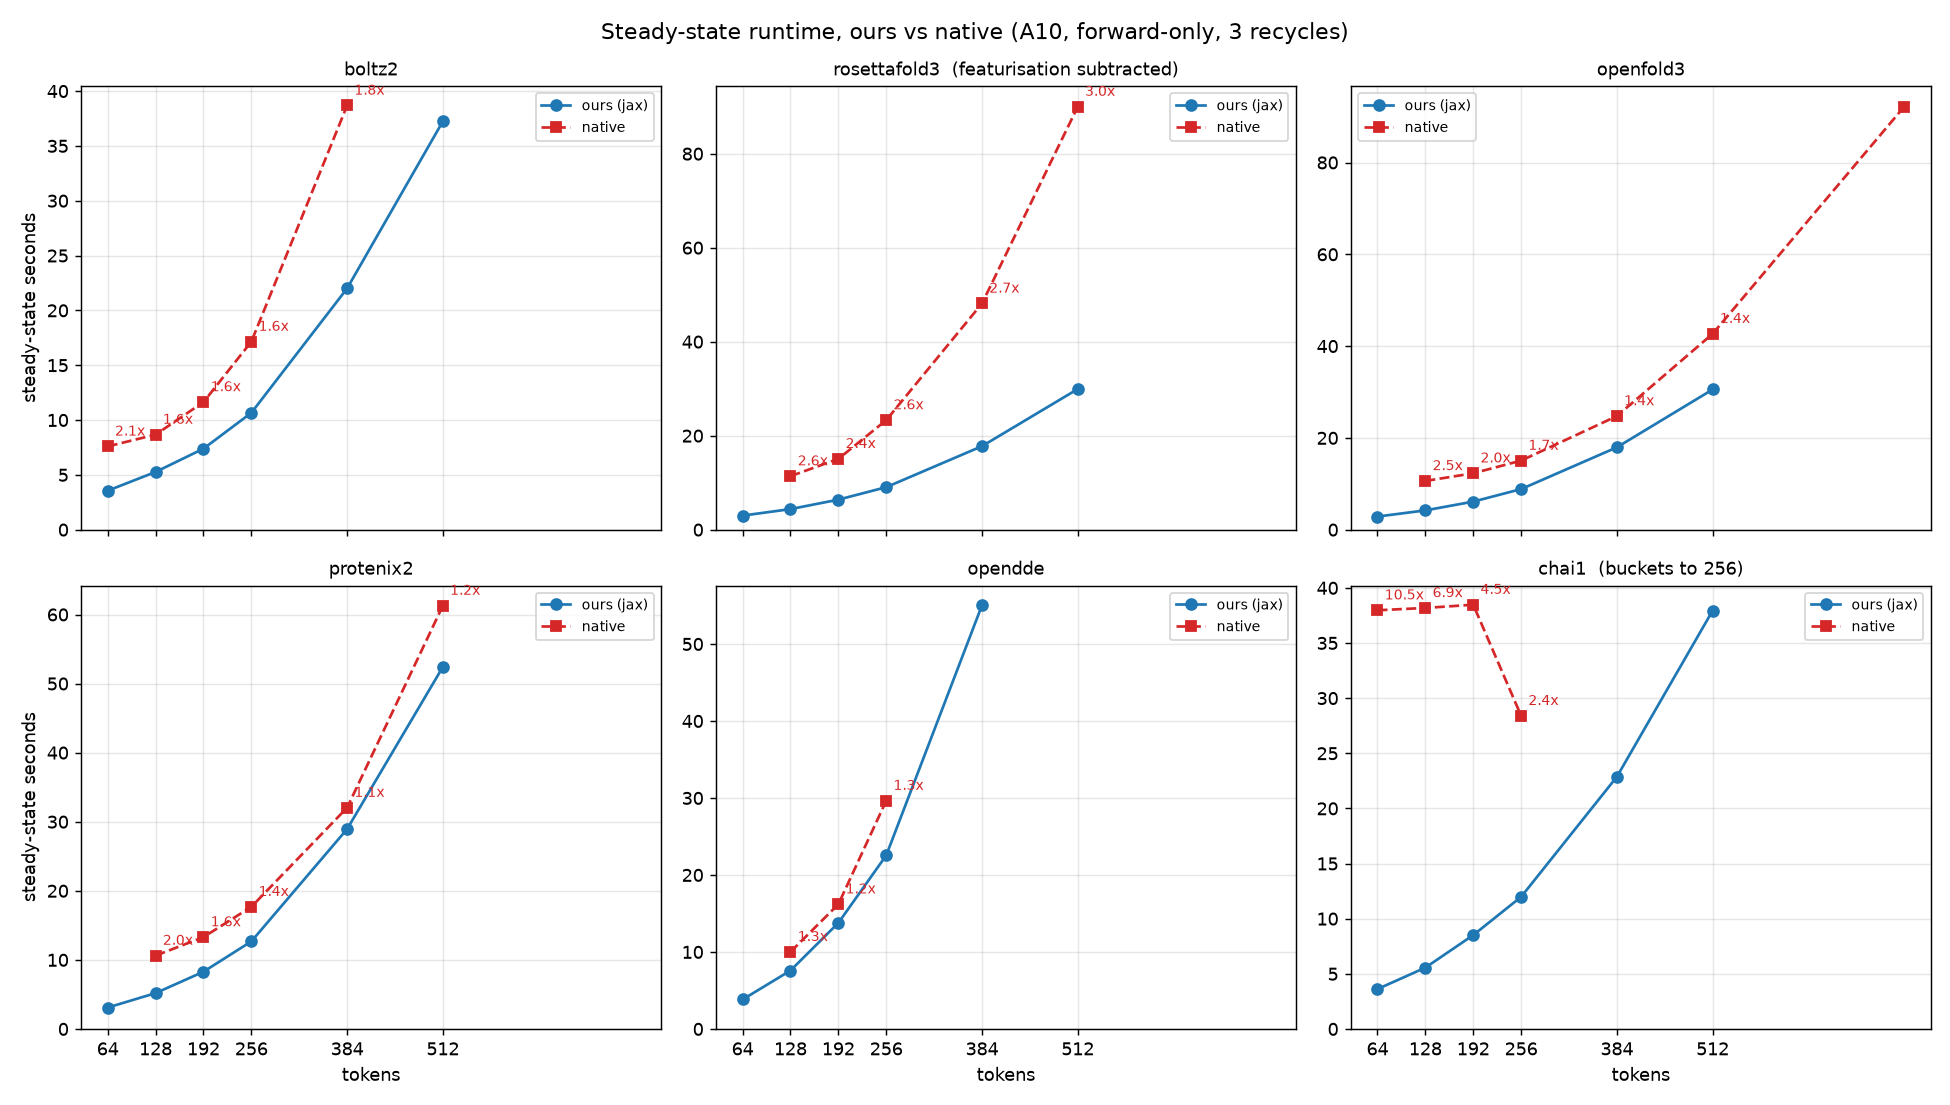
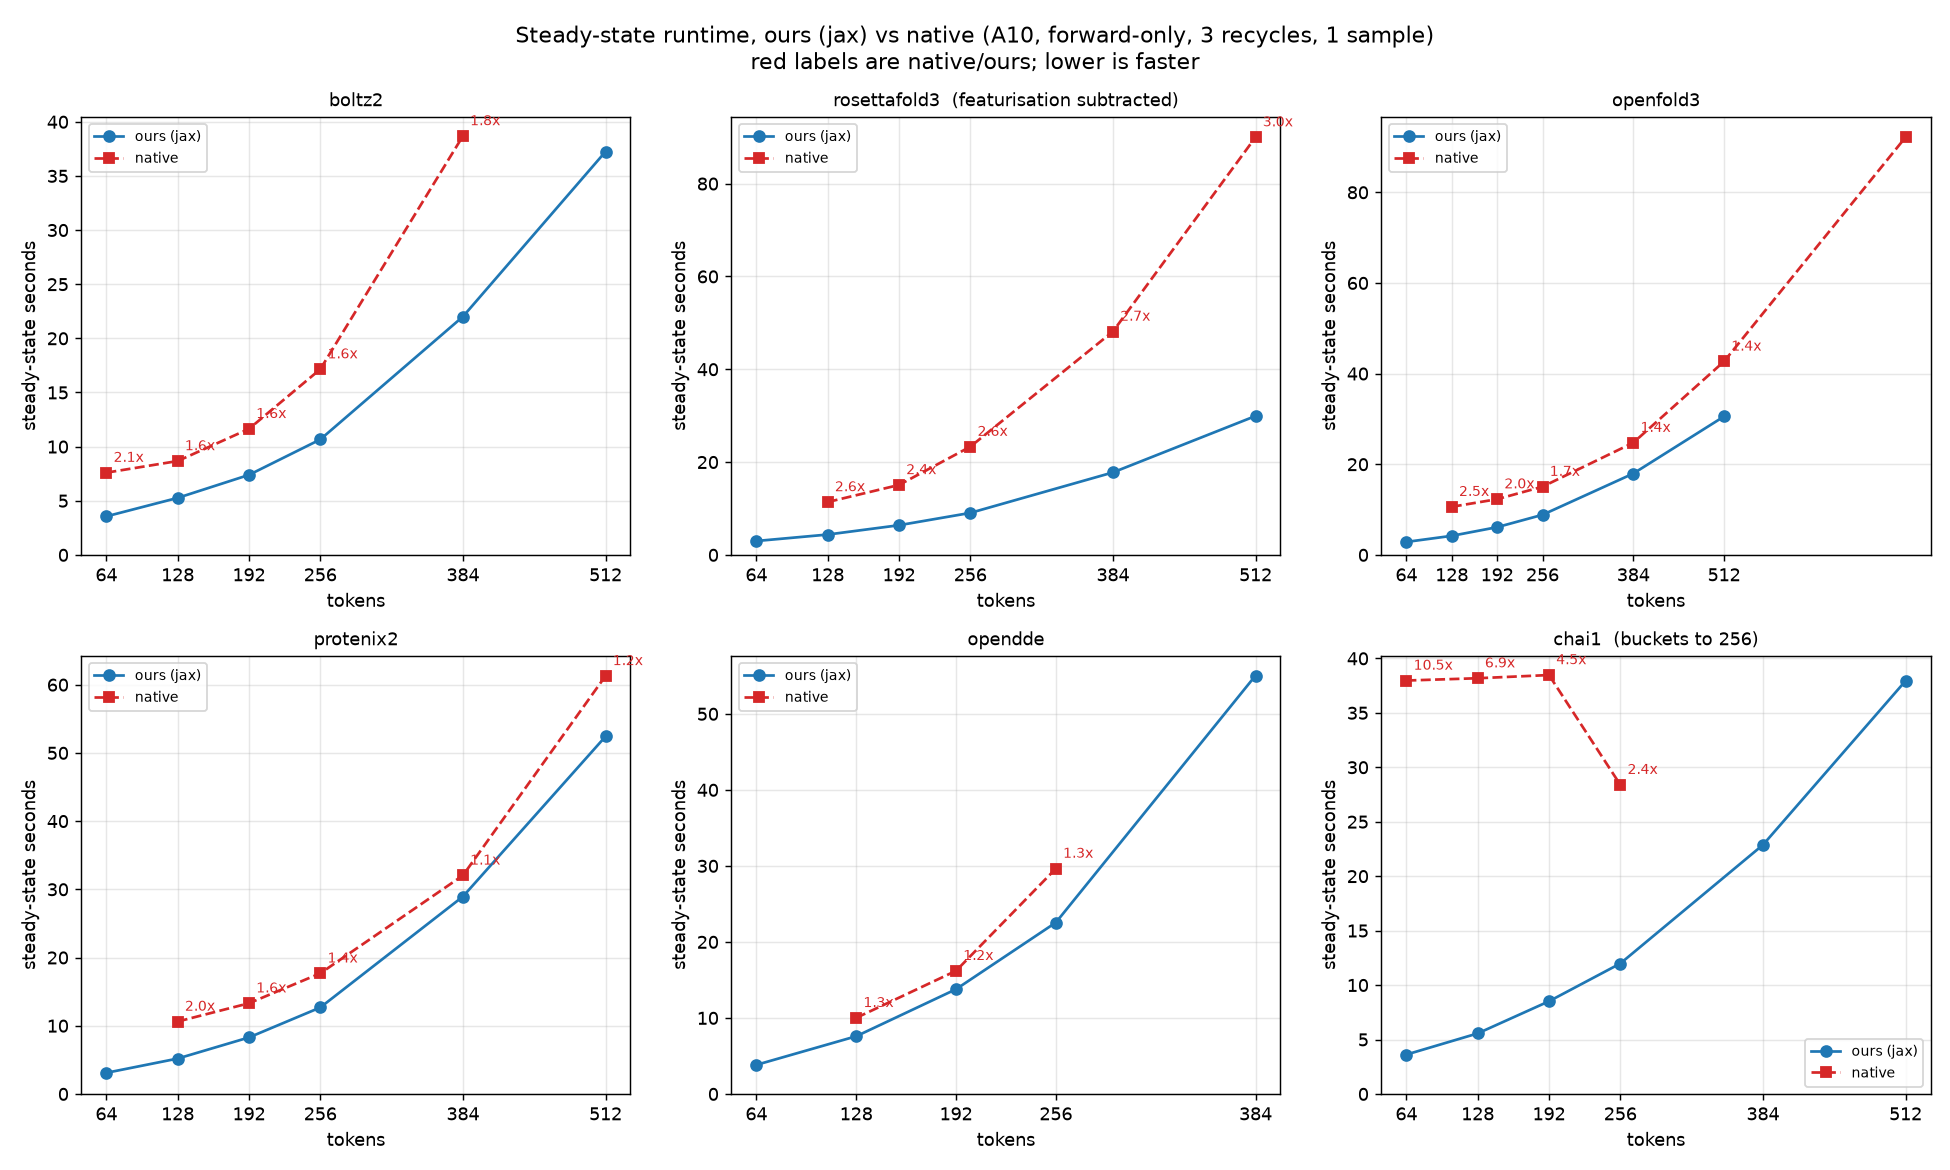
scoring re-ran the whole trunk, and the plots get per-panel labels
ValueError-free but wrong: stage='score' fell through to the normal
    path, so it ran the RECYCLE LOOP AGAIN -- four more trunk passes and
    a second compile of the trunk -- before reaching the confidence
    head. That is the "it keeps running for seconds after folding is
    done": 31.8 s on a cold T4 where the confidence head itself is 81 ms
    warm. Almost none of it was the head.

Live mode is +4% over fused now (was +8%), cold 45.8 s (was ~56).

Cold phase breakdown that found it, T4, 25 steps:

    load params                     3.7 s
    featurise                       1.2 s
    recycle 0                      24.9 s   trunk trace + compile
    recycle 1                      19.8 s   a SECOND trace (see below)
    recycles 2-3                    0.2 s each
    diffusion 0                    33.7 s   conditioning + denoise compile
    diffusion 1-24                  6.9 s
    after the last frame           31.8 s   <- this commit
    result -> host                  0.1 s

The 19.8 s second trace is still there and is the next thing to fix:
the first trunk call passes carry=None and the rest pass a dict, which
is two jit signatures for one computation.

Plots: axis labels on every panel rather than shared outer ones -- each
panel has its own y scale (protenix2 reaches 60 s where boltz2 reaches
40), so one label down the side invites reading two panels as one axis.
The subtitle now says what the red numbers are.

diff --git a/src/alphafold3/model/model.py b/src/alphafold3/model/model.py
@@ -645,16 +645,17 @@ class Model(hk.Module):
           self.global_config.model == 'chai1')
       body = hk.vmap(body, in_axes=(0, None), split_rng=not hk.running_init())
       if jnp.ndim(noise_level) == 0:
-        carry, positions = body(carry, noise_level)
-        return {'carry': carry, 'atom_positions': positions}
+        carry, (positions, denoised) = body(carry, noise_level)
+        return {'carry': carry, 'atom_positions': positions,
+                'denoised': denoised}
       # A CHUNK of steps in one dispatch. One step per call left ~21 ms of
       # dispatch on top of the step's own ~12 ms, which is most of live mode's
       # remaining cost; scanning k steps divides that by k while `ys` still
       # returns every intermediate frame, so nothing is lost to the animation.
       # unroll=1 for the same reason sample() uses it: one body copy, so
       # compile does not track the chunk length.
-      carry, traj = hk.scan(body, carry, noise_level, unroll=1)
-      return {'carry': carry, 'atom_positions': traj}
+      carry, (traj, denoised) = hk.scan(body, carry, noise_level, unroll=1)
+      return {'carry': carry, 'atom_positions': traj, 'denoised': denoised}
 
     sample = diffusion_head.sample(
         denoising_step=denoising_step,
@@ -884,9 +885,14 @@ class Model(hk.Module):
           self.config.heads.distogram, self.global_config
       )(batch, embeddings, return_distogram=False)
       return embeddings, key, dgram['contact_probs']  # pyrefly: ignore[bad-return]
-    if stage == 'heads':
+    # 'score' belongs here too. It fell through to the branch below, which
+    # means it RAN THE WHOLE RECYCLE LOOP AGAIN -- four more trunk passes and a
+    # second compile of the trunk -- before reaching the confidence head. That
+    # is why scoring appeared to take 31.8 s on a cold T4 while the confidence
+    # head itself is 81 ms warm: almost none of it was the head.
+    if stage in ('heads', 'score'):
       if recycle_carry is None:
-        raise ValueError("stage='heads' needs the trunk's embeddings")
+        raise ValueError(f"stage={stage!r} needs the trunk's embeddings")
       embeddings = {**embeddings, **recycle_carry}
     elif hk.running_init():
       embeddings, _ = recycle_body(None, (embeddings, key))

diff --git a/dev/bench/results/plot_vs_native.py b/dev/bench/results/plot_vs_native.py
@@ -75,7 +75,7 @@ for line in open(OURS):
         pass
 
 models = [m for m in NATIVE if m in ours and NATIVE[m]]
-fig, axes = plt.subplots(2, 3, figsize=(15, 8.5), sharex=True)
+fig, axes = plt.subplots(2, 3, figsize=(15, 9))
 for ax, m in zip(axes.flat, models):
     L = sorted(ours[m])
     y = [statistics.mean(ours[m][l]) for l in L]
@@ -90,12 +90,17 @@ for ax, m in zip(axes.flat, models):
     ax.set_title(m + (f'  ({NOTE[m]})' if m in NOTE else ''), fontsize=10)
     ax.set_xticks(L); ax.set_xticklabels(L)
     ax.set_ylim(bottom=0)
-    ax.grid(alpha=.3, which='both'); ax.legend(fontsize=8)
-for ax in axes[1]:
+    # Labels on EVERY panel, not just the outer ones. Each panel has its own y
+    # scale -- protenix2 tops out at 60 s where boltz2 tops out at 40 -- so a
+    # shared label down the side invites reading two panels as one axis.
     ax.set_xlabel('tokens')
-for ax in axes[:, 0]:
     ax.set_ylabel('steady-state seconds')
-fig.suptitle('Steady-state runtime, ours vs native (A10, forward-only, 3 recycles)',
+    ax.tick_params(labelbottom=True, labelleft=True)
+    ax.grid(alpha=.3, which='both'); ax.legend(fontsize=8)
+
+fig.suptitle('Steady-state runtime, ours (jax) vs native (A10, forward-only, '
+             '3 recycles, 1 sample)\n'
+             'red labels are native/ours; lower is faster',
              fontsize=12)
 fig.tight_layout()
 fig.savefig(OUT, dpi=130)

diff --git a/src/alphafold3/model/network/diffusion_head.py b/src/alphafold3/model/network/diffusion_head.py
@@ -675,7 +675,13 @@ def make_denoising_body(denoising_step, mask, config, global_config, chai):
     else:
       positions_out = positions_noisy + config.step_scale * d_t * grad
 
-    return (key, positions_out, noise_level), positions_out
+    # ys carries BOTH: the state this step hands on, and the denoiser's own
+    # prediction of the clean structure (x0). For display you want the second.
+    # The state is the noisy trajectory -- at step 0 it has a radius of
+    # gyration of 830 A, i.e. a cloud -- while the prediction is already a
+    # compact structure that sharpens as sigma falls. Showing the state makes
+    # the animation look like noise for most of its length.
+    return (key, positions_out, noise_level), (positions_out, positions_denoised)
 
   return apply_denoising_step
 
@@ -779,7 +785,8 @@ def sample(
   # compile tracked the step count in a way that looked inexplicable.
   # (Below `unroll` steps jax's _scan_impl emits no loop at all -- num_trips==1 and
   # remainder==0 -- which is the 3.5s case, not something to design around.)
-  result, trajectory = hk.scan(apply_denoising_step, init, noise_levels[1:], unroll=1)
+  result, (trajectory, _denoised_traj) = hk.scan(
+      apply_denoising_step, init, noise_levels[1:], unroll=1)
   _, positions_out, _ = result
 
   final_dense_atom_mask = jnp.tile(mask[None], (num_samples, 1, 1))

diff --git a/run_alphafold.py b/run_alphafold.py
@@ -858,7 +858,10 @@ class ModelRunner:
                   f'{dcarry[1].shape} (num_samples, num_tokens, max_atoms, 3)')
             dcarry = (dcarry[0], steered, dcarry[2])
         if on_frame:
-          frames = out['atom_positions']
+          # The DENOISER'S PREDICTION, not the noisy state it hands on. See
+          # make_denoising_body: the state is a cloud early (830 A radius of
+          # gyration at step 0) where the prediction is already a structure.
+          frames = out.get('denoised', out['atom_positions'])
           if len(chunk) > 1:
             for j in range(len(chunk)):
               on_frame('diffusion', t + j, frames[j])
